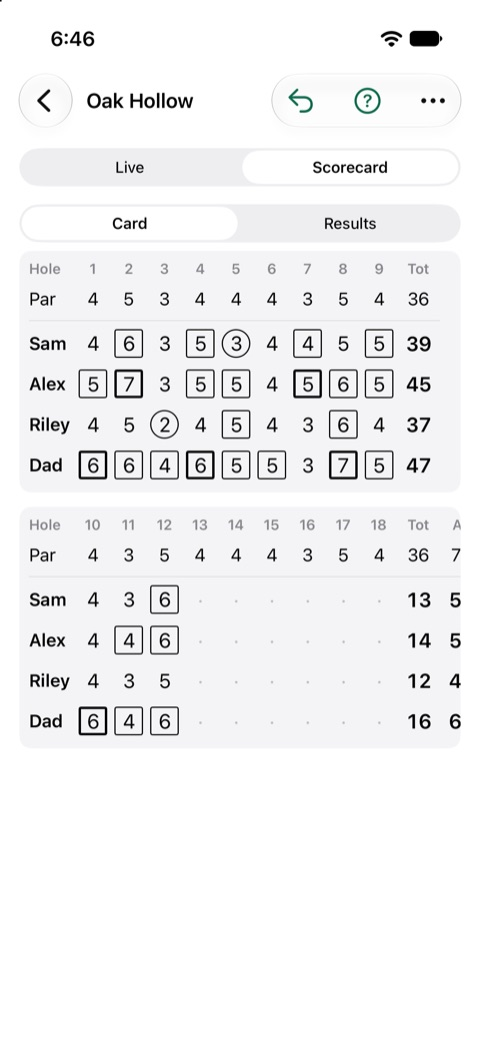
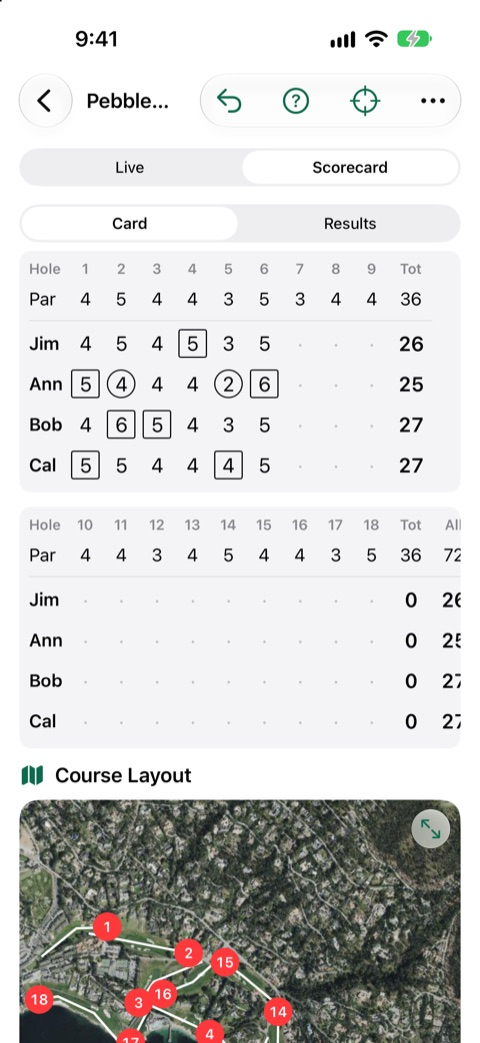
Show TallyUp Golf at Pebble Beach: the hole on the map, in 3D, drawn and from the side, the scorecard and course layout, and iPhone Duo open

diff --git a/tallyup-golf/index.html b/tallyup-golf/index.html
@@ -12,7 +12,7 @@
 <meta name="viewport" content="width=device-width, initial-scale=1">
 <meta name="color-scheme" content="light dark">
 <title>TallyUp Golf: Score the Round and the Side Games</title>
-<meta name="description" content="A golf scorecard app in the works for iPhone and iPad: hole-by-hole scores for up to four players, side games like skins, Nassau and wolf, and who owes whom at the end.">
+<meta name="description" content="A golf scorecard app in the works for iPhone, iPhone Duo and iPad: GPS yards to the green, every hole on the map, in 3D, drawn or from the side, scores for up to four players, side games like skins, Nassau and wolf, and who owes whom at the end.">
 <link rel="icon" href="../assets/favicon.png">
 <link rel="stylesheet" href="../assets/site.css">
 </head>
@@ -30,15 +30,28 @@
       <span class="soon">Coming soon, maybe</span>
     </div>
   </div>
-  <p>Keep score hole by hole for up to four players, with strokes given for handicaps. Add skins, a Nassau or wolf, and at the end TallyUp Golf works out who owes whom in the fewest payments.</p>
+  <p>See the hole you're on, with the yards to the front, middle and back of the green from where you stand. Keep score hole by hole for up to four players, with strokes given for handicaps. Add skins, a Nassau or wolf, and at the end TallyUp Golf works out who owes whom in the fewest payments.</p>
   <ul class="shots mixed" tabindex="0" aria-label="Screenshots">
-    <li><img src="../assets/tallyup-golf/iphone-hole.jpg" alt="Hole 13, a par 4 of 388 yards, with a row for each of four players and minus, par and plus buttons" width="480" height="1043" loading="lazy"></li>
-    <li><img src="../assets/tallyup-golf/iphone-scorecard.jpg" alt="The scorecard for four players through 12 holes, with birdies circled and bogeys boxed" width="480" height="1043" loading="lazy"></li>
+    <li><img src="../assets/tallyup-golf/iphone-map.jpg" alt="Pebble Beach's 7th hole on the satellite map from its tee, with 119 yards to the back of the green, 108 to the middle and 96 to the front, above score buttons for four players" width="480" height="1043" loading="lazy"></li>
+    <li><img src="../assets/tallyup-golf/iphone-3d.jpg" alt="The same hole in 3D, looking from the tee across the cliffs to the green on the point with the ocean behind it" width="480" height="1043" loading="lazy"></li>
+    <li><img src="../assets/tallyup-golf/iphone-drawing.jpg" alt="The same hole drawn like a yardage book: the tee, the line to the green, and the bunkers around it" width="480" height="1043" loading="lazy"></li>
+    <li><img src="../assets/tallyup-golf/iphone-side.jpg" alt="The same hole from the side: the ground falling 29 feet from the tee to the green, so it plays like 84 yards" width="480" height="1043" loading="lazy"></li>
+    <li><img src="../assets/tallyup-golf/iphone-scorecard.jpg" alt="The scorecard for four players through six holes at Pebble Beach, with birdies circled and bogeys boxed" width="480" height="1043" loading="lazy"></li>
+    <li><img src="../assets/tallyup-golf/iphone-course.jpg" alt="Under the scorecard, all 18 holes of Pebble Beach on the satellite map, each numbered at its green" width="480" height="1043" loading="lazy"></li>
     <li><img src="../assets/tallyup-golf/iphone-results.jpg" alt="Side game results: skins won by each player, the Nassau bets and presses, and three payments to settle up" width="480" height="1043" loading="lazy"></li>
+  </ul>
+
+  <h2>Open it up</h2>
+  <p>On iPhone Duo, open the phone and the round spreads across both halves: the scorecard and the whole course on one, the hole and the score buttons on the other.</p>
+  <ul class="shots mixed" tabindex="0" aria-label="Screenshots on iPhone Duo, open">
+    <li><img src="../assets/tallyup-golf/duo-open.jpg" alt="iPhone Duo open: the Pebble Beach scorecard on one half, and the 7th hole in 3D with the yards to the green and score buttons for four players on the other" width="1000" height="703" loading="lazy"></li>
+    <li><img src="../assets/tallyup-golf/duo-course.jpg" alt="iPhone Duo open: all 18 holes of Pebble Beach on the map on one half, and the 7th hole in 3D on the other" width="1000" height="703" loading="lazy"></li>
   </ul>
 
   <h2>What it does</h2>
   <div class="features">
+    <div><h3>The hole in front of you</h3><p>Each hole on the satellite map, turned to play from the tee, with GPS yards to the green. Switch to 3D, a yardage-book drawing, or a side view of how much it climbs or drops.</p></div>
+    <div><h3>The whole course</h3><p>Under the scorecard, every hole on the map. Tap a number to jump to that hole. Course shapes come from OpenStreetMap, and heights from the US Geological Survey.</p></div>
     <div><h3>One tap for par</h3><p>A blank score starts at par, so most holes take one tap per player. Plus and minus cover the rest.</p></div>
     <div><h3>Side games</h3><p>Stroke play, Stableford, match play, skins, Nassau with presses, and wolf, played gross or net.</p></div>
     <div><h3>Settle up</h3><p>Every side game adds up to the fewest payments between players, in points. It keeps the tally; it doesn't move money.</p></div>
